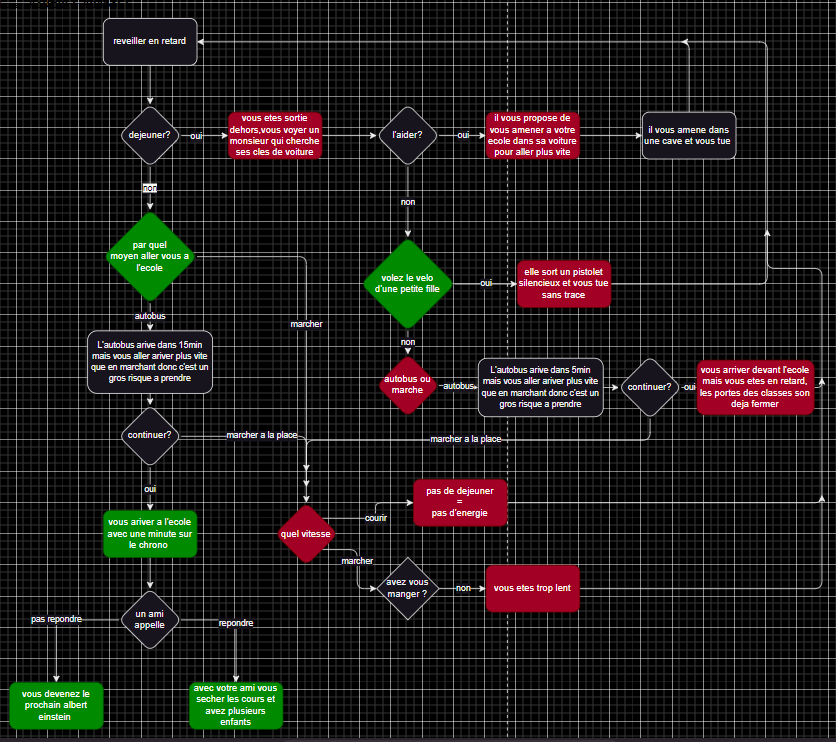
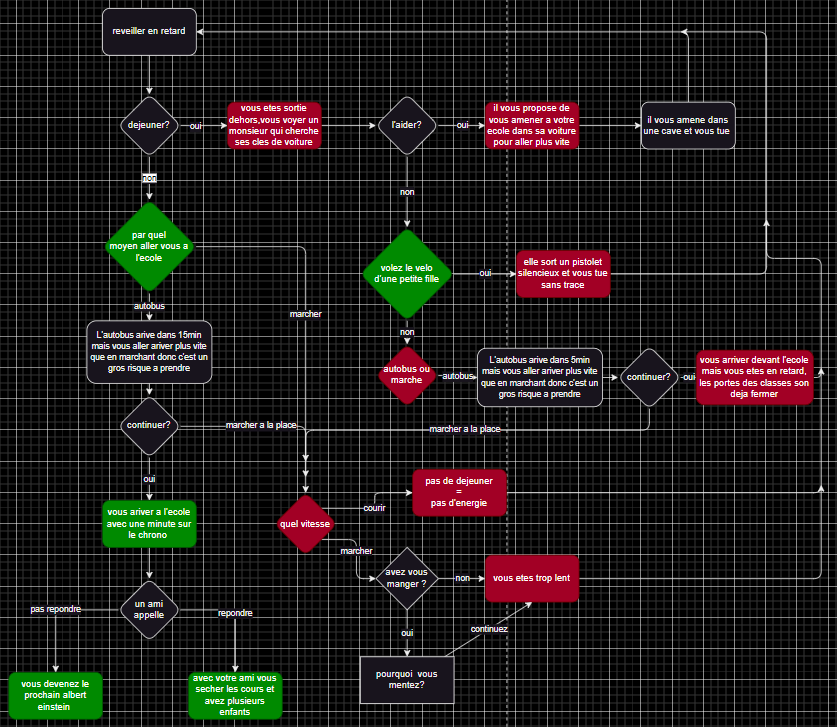
changement de shemas et js

diff --git a/java.js b/java.js
@@ -1,0 +1,56 @@
+chapters = {
+    reveil: {
+
+    },
+    transport: {
+
+    },
+    continuer: {
+
+    },
+    appel: {
+
+    },
+    einstein: {
+
+    },
+    enfant: {
+
+    },
+    voiture: {
+
+    },
+    cave: {
+
+    },
+    velo: {
+
+    },
+    pistolet: {
+
+    },
+    transport2: {
+
+    },
+    continuer2: {
+
+    },
+    retard: {
+
+    },
+    vitesse: {
+
+    },
+    pasDenergie: {
+
+    },
+    manger: {
+
+    },
+    theRock: {
+
+    },
+    lenteur:{
+
+    },
+};
